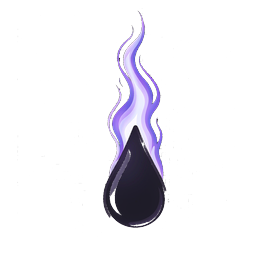
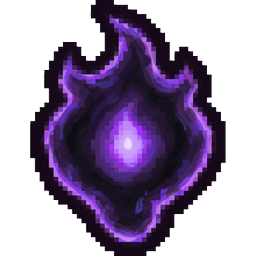
art(v0.4.3): 重绘鬼气/能量资源图标（AI，游戏资源风格）
用户截图反馈：鬼气小图标太碎、能量球是纯色平面圆。用 AI 重绘：① 鬼气 = 紫色鬼火球 + 亮芯 + 粗描边（20px 下可读）；② 能量 = 金色漩涡球（白热内芯 + 厚实描边）。处理：白底键出透明 → alpha 包围盒裁边 → 等比缩放居中。ghost_qi_small 64/ghost_qi_large 256/energy_text 49x64；energy_big 改为 256x256 正方形，能量计数器场景 128x128 一比一铺满（场景 Layer1 本就指向该文件，无需改）。

diff --git a/.tools/package.py b/.tools/package.py
@@ -18,7 +18,7 @@ import shutil
 import hashlib
 import zipfile
 
-VERSION = "v0.4.2"
+VERSION = "v0.4.3"
 
 REPO = r"C:\Users\wangx\Documents\Default Project\WanJieRuLin"
 GAME_MODS = r"C:\Program Files (x86)\Steam\steamapps\common\Slay the Spire 2\mods"
